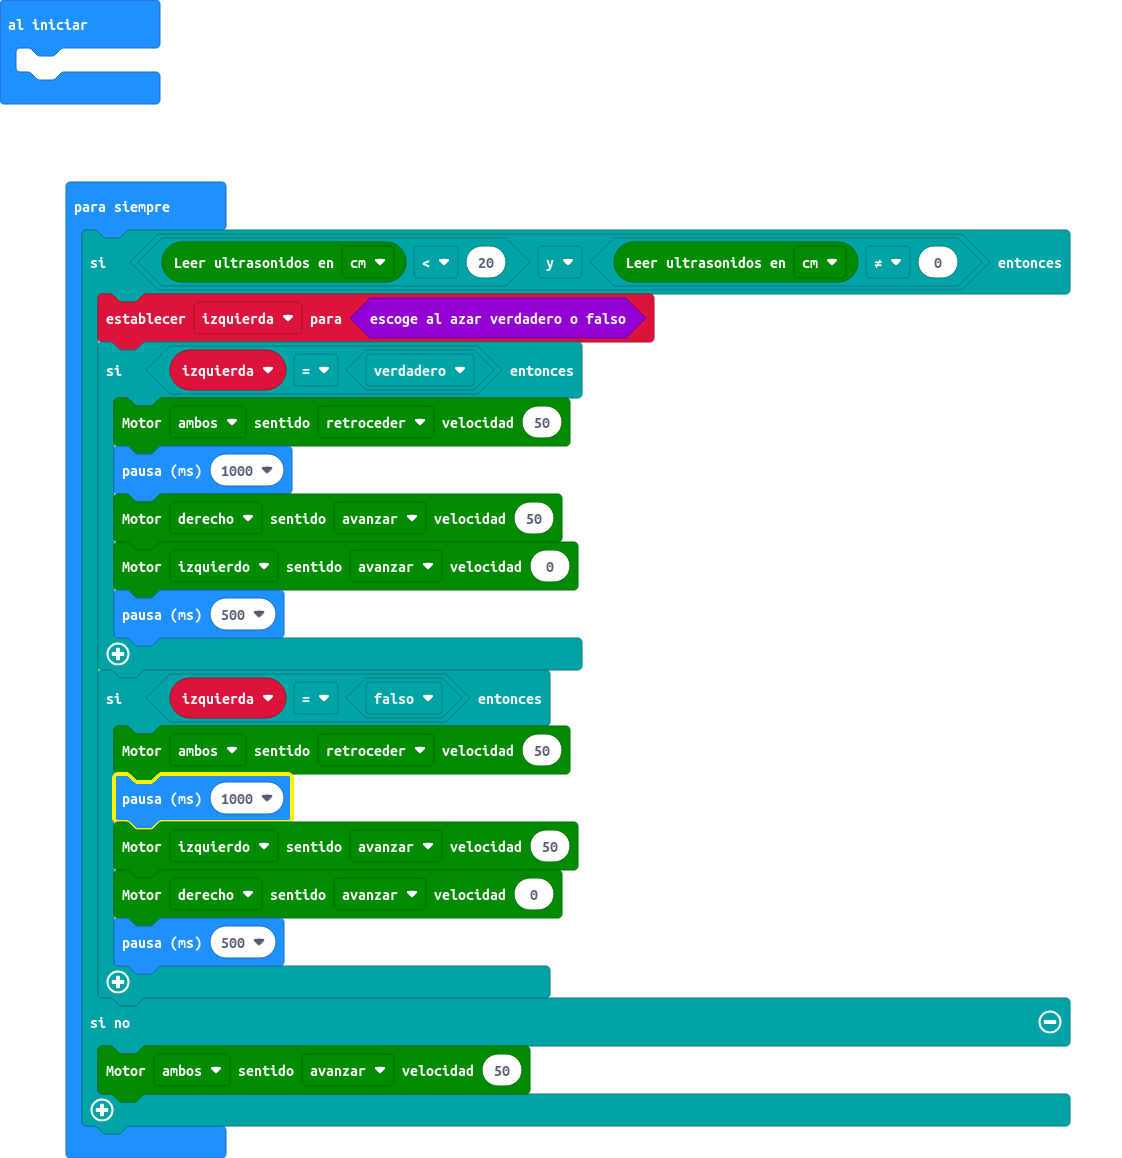
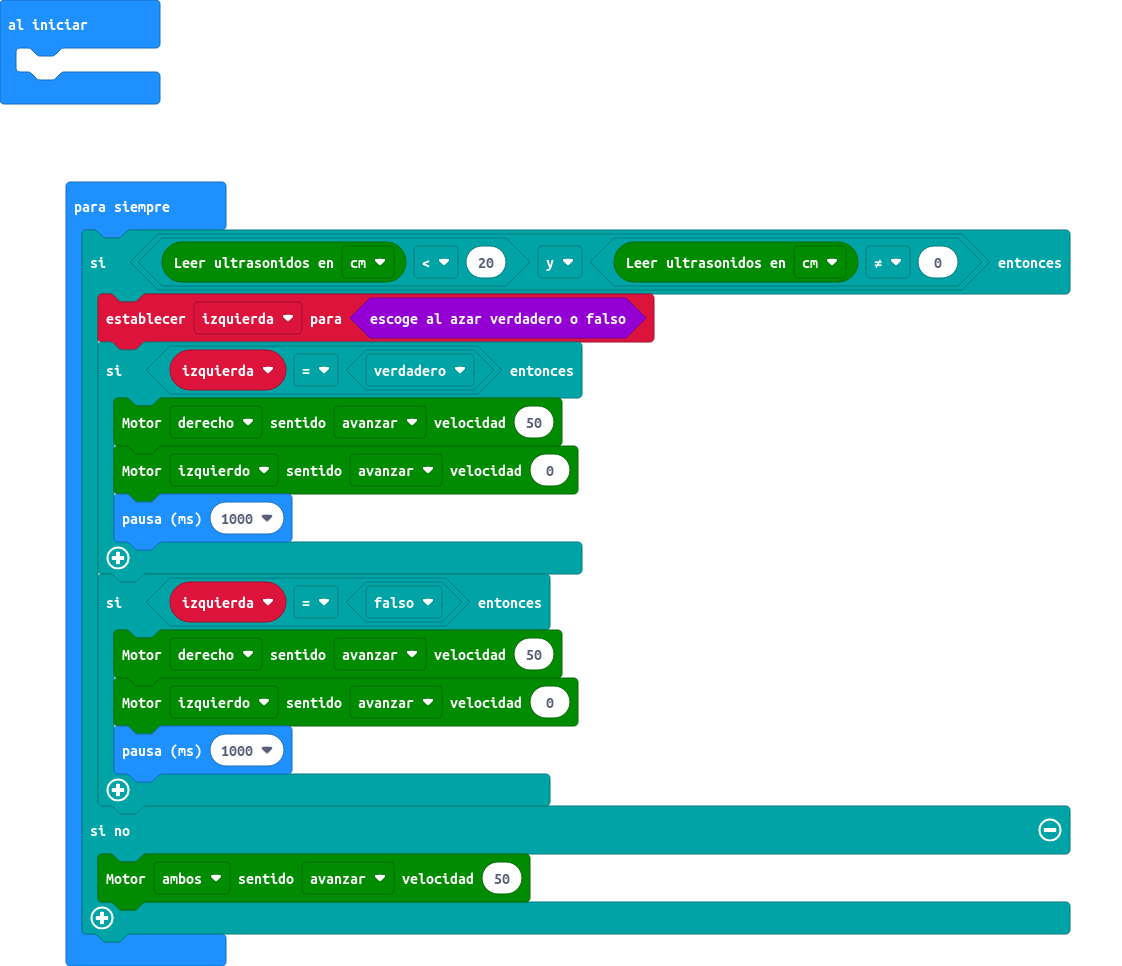
Actualizar main.blocks, main.ts

Changed region(s): [[0.0312, 0.1553, 0.967, 0.9938], [0.0, 0.0, 0.156, 0.1242]]

diff --git a/main.ts b/main.ts
@@ -3,18 +3,14 @@ basic.forever(function () {
     if (maqueen.Ultrasonic(PingUnit.Centimeters) < 20 && maqueen.Ultrasonic(PingUnit.Centimeters) != 0) {
         izquierda = Math.randomBoolean()
         if (izquierda == true) {
-            maqueen.motorRun(maqueen.Motors.All, maqueen.Dir.CCW, 50)
-            basic.pause(1000)
             maqueen.motorRun(maqueen.Motors.M2, maqueen.Dir.CW, 50)
             maqueen.motorRun(maqueen.Motors.M1, maqueen.Dir.CW, 0)
-            basic.pause(500)
+            basic.pause(1000)
         }
         if (izquierda == false) {
-            maqueen.motorRun(maqueen.Motors.All, maqueen.Dir.CCW, 50)
+            maqueen.motorRun(maqueen.Motors.M2, maqueen.Dir.CW, 50)
+            maqueen.motorRun(maqueen.Motors.M1, maqueen.Dir.CW, 0)
             basic.pause(1000)
-            maqueen.motorRun(maqueen.Motors.M1, maqueen.Dir.CW, 50)
-            maqueen.motorRun(maqueen.Motors.M2, maqueen.Dir.CW, 0)
-            basic.pause(500)
         }
     } else {
         maqueen.motorRun(maqueen.Motors.All, maqueen.Dir.CW, 50)
